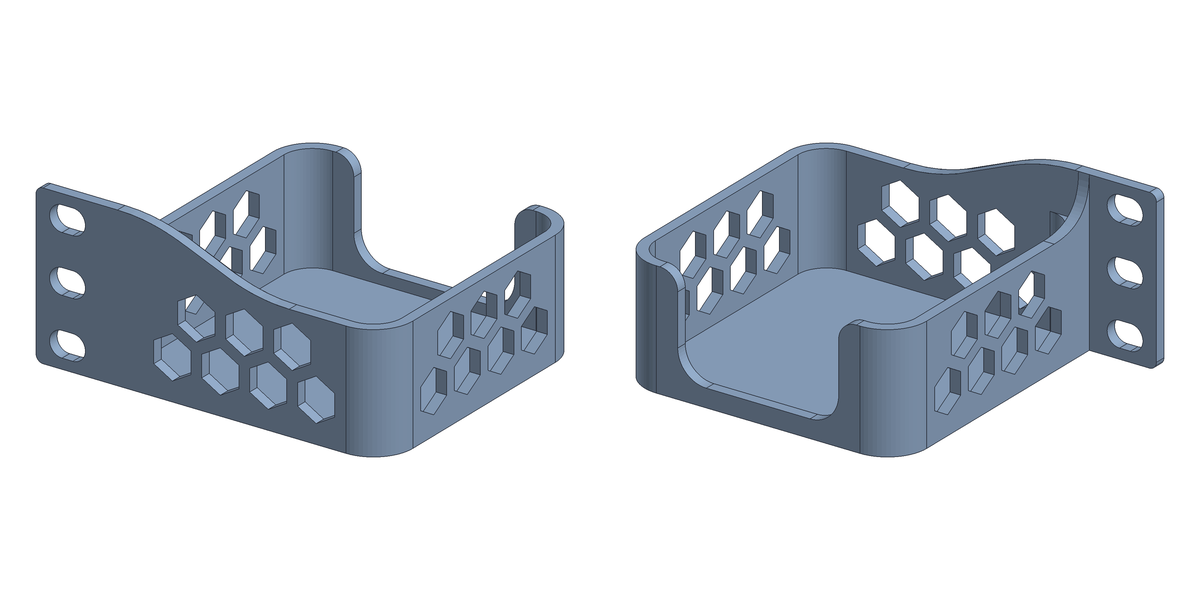
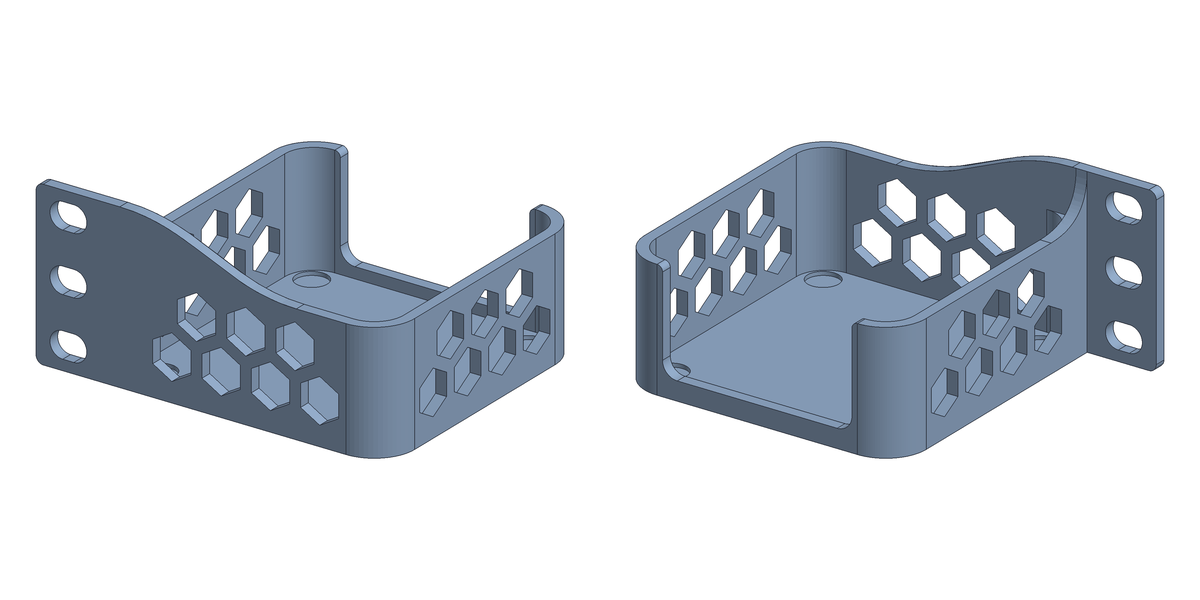
Fit the Caseta rack mount to the bridge as measured
The first print, sized from Lutron's spec sheet, was loose, and its
notch blocked the Ethernet port. The bridge measures 69.5 mm square, not
69.9, so the pocket now allows 0.5 mm around it rather than 1.5 mm.

Dimples in the floor take the bridge's four 7.5 mm rubber feet, as the
Hue mount's do, and locate it. The cable notch widens to 51.5 mm, with
smaller corners, so that it clears the Ethernet port, 10 mm in from the
bridge's edge and 8 mm up, by 1 mm on either hand of mount; the model
asserts that its bottom corners stay below the port.

make also writes a test piece: the back of the tray, with the notch, the
back corners and two dimples, for checking the fit before a full print.

diff --git a/models/caseta-rack-mount/caseta-rack-mount.py b/models/caseta-rack-mount/caseta-rack-mount.py
@@ -2,7 +2,8 @@
 
 An open tray holds the bridge beside a rack post. Its front wall carries on
 past one side of the tray as a 1U ear, which screws to the post; the tray's
-far wall has a wide notch for the bridge's cables. The style follows a
+far wall has a wide notch for the bridge's cables, and dimples in the floor
+take the bridge's rubber feet. The style follows a
 Philips Hue Bridge corner mount: hexagon windows in the walls, and the ear
 rising above the walls in a smooth curve.
 
@@ -14,6 +15,7 @@ on the left (-X) when seen from the front; the right mount mirrors it.
 from build123d import (
     Align,
     Axis,
+    Box,
     Circle,
     Part,
     Plane,
@@ -33,10 +35,19 @@ from build123d import (
 from common.export import export
 from common.preview import preview
 
-# The Smart Bridge (L-BDG2) is 2.75 x 2.75 x 1.19 in.
-BRIDGE_WIDTH = 69.9
+# The Smart Bridge (L-BDG2), as measured. Lutron gives 2.75 x 2.75 x 1.19 in
+# (69.9 x 69.9 x 30.2 mm), but a pocket sized from that was loose.
+BRIDGE_WIDTH = 69.5
 BRIDGE_HEIGHT = 30.2
-CLEARANCE = 1.5  # around the bridge, each side
+CLEARANCE = 0.5  # around the bridge, each side; the feet locate it
+
+# A 7.5 mm rubber foot in each corner of the bridge's base, 1.5 mm in from both
+# edges and standing about 1 mm proud. Each sits in a dimple in the floor, so
+# the bridge rests on the floor.
+FOOT_DIAMETER = 7.5
+FOOT_INSET = 1.5  # from each nearby edge of the bridge
+DIMPLE_DIAMETER = FOOT_DIAMETER + 1
+DIMPLE_DEPTH = 1
 
 # The tray. The walls come up to the top of the bridge.
 FLOOR = 2
@@ -69,11 +80,21 @@ HEX_HEIGHT = 12  # point to point
 HEX_PITCH = 13.4  # across, leaving 3 mm between windows
 HEX_ROW_PITCH = HEX_PITCH * 3**0.5 / 2
 
-# The cable notch in the back wall, for the bridge's power and Ethernet.
-NOTCH_WIDTH = 45
+# The cable notch in the back wall. The Ethernet port is off to one side of
+# the bridge's back, its near side 10 mm from the bridge's edge and its bottom
+# 8 mm up. The notch is symmetric, so that the port clears it on either hand of
+# mount; the micro-USB power port, centred and lower, clears it easily.
+ETHERNET_INSET = 10  # from the bridge's edge to the port's near side
+ETHERNET_BOTTOM = 8  # above the bridge's base
+PORT_MARGIN = 1  # beside the port, for the plug's boot
+NOTCH_WIDTH = BRIDGE_WIDTH - 2 * (ETHERNET_INSET - PORT_MARGIN)
 NOTCH_BOTTOM = FLOOR + 3
-NOTCH_RADIUS = 8  # at the bottom corners
-NOTCH_FLARE = 5  # rounding the top of the wall into the notch
+NOTCH_RADIUS = 4  # at the bottom corners
+NOTCH_FLARE = 1.5  # rounding the top of the wall into the notch
+
+# The test piece: the back of the tray, with the notch and the back two
+# dimples, to check the fit before printing the whole mount.
+TEST_DEPTH = 18
 
 CORNER = (Align.MIN, Align.MIN)
 
@@ -86,6 +107,9 @@ assert NOTCH_WIDTH + 2 * NOTCH_FLARE <= WIDTH - 2 * CORNER_RADIUS, (
 )
 assert NOTCH_BOTTOM + NOTCH_RADIUS <= WALL_HEIGHT - NOTCH_FLARE, (
     "The cable notch's corners overlap"
+)
+assert NOTCH_BOTTOM + NOTCH_RADIUS <= FLOOR + ETHERNET_BOTTOM, (
+    "The cable notch's bottom corners block the Ethernet port"
 )
 
 
@@ -185,9 +209,20 @@ def notch() -> Sketch:
     return cut
 
 
+def dimples() -> Part:
+    """The recesses in the floor for the bridge's feet."""
+    offset = BRIDGE_WIDTH / 2 - FOOT_INSET - FOOT_DIAMETER / 2
+    recesses = Sketch()
+    for x in (-offset, offset):
+        for y in (-offset, offset):
+            recesses += Pos(WIDTH / 2 + x, DEPTH / 2 + y) * Circle(DIMPLE_DIAMETER / 2)
+    return Pos(0, 0, FLOOR - DIMPLE_DEPTH) * extrude(recesses, DIMPLE_DEPTH + 1)
+
+
 def mount(holes: int = 3) -> Part:
     """The left-hand mount, with 2 or 3 screw slots in the ear."""
     part = tray() + ear(holes) + gusset()
+    part -= dimples()
     part -= side(hexagons(DEPTH / 2), -1, WIDTH + 2)
     part -= front(hexagons(WIDTH / 2), -1, WALL + 2)
     part -= front(notch(), DEPTH - WALL - 1, WALL + 2)
@@ -202,7 +237,13 @@ def right(part: Part) -> Part:
 left_3 = mount(3)
 left_2 = mount(2)
 
+# The back of the tray is the same on either hand of mount.
+test_piece = left_3 & Pos(-1, DEPTH - TEST_DEPTH, 0) * Box(
+    WIDTH + 2, TEST_DEPTH + 1, RACK_UNIT, align=(Align.MIN, Align.MIN, Align.MIN)
+)
+
 if __name__ == "__main__":
+    export(test_piece, __file__, variant="test")
     export(right(left_3), __file__, variant="right")
     export(left_2, __file__, variant="2-hole")
     export(right(left_2), __file__, variant="right-2-hole")

diff --git a/models/caseta-rack-mount/README.md b/models/caseta-rack-mount/README.md
@@ -7,25 +7,36 @@ of a Philips Hue Bridge corner mount: an open tray with hexagon windows,
 whose front wall carries on past one side as a 1U ear.
 
 The ear screws to a rack post, and the tray sits beside the post. A wide
-notch in the tray's back wall lets the power and Ethernet cables out. The ear
-stands a full rack unit tall over the screws, then curves down to the walls.
+notch in the tray's back wall lets the power and Ethernet cables out, and
+dimples in the floor take the bridge's rubber feet. The ear stands a full rack unit tall over the screws, then curves down to the walls.
 
 ## Status
 
-Not yet test-fitted.
+The first print, sized from Lutron's spec sheet (69.9 mm square, with 1.5 mm
+around it), was loose, and its notch blocked the Ethernet port. This version
+is sized from the bridge itself but has not been printed yet.
 
-The bridge is 2.75 x 2.75 x 1.19 in (69.9 x 69.9 x 30.2 mm) by Lutron's
-spec sheet; the pocket allows 1.5 mm around it, and the walls come up to its
-top. The bridge's corner radius has not been measured: the pocket's corners
-have an 8 mm radius, which fits any bridge corner of about 3 mm or more.
+The bridge measures 69.5 mm square and 30.2 mm tall. The pocket allows 0.5 mm
+around it, and the walls come up to its top. Its base has a 7.5 mm rubber
+foot in each corner, 1.5 mm in from both edges and about 1 mm proud; each
+sits in an 8.5 mm dimple 1 mm deep, which locates the bridge and lets it rest
+on the floor.
+
+The Ethernet port's near side is 10 mm in from the bridge's edge and its
+bottom 8 mm up. The port is off to one side, and the right-hand mount mirrors
+the left, so the notch is symmetric: 51.5 mm wide, clearing the port by 1 mm
+on either hand. Its bottom corners are rounded off below the port. The
+micro-USB power port is centred and lower, well inside the notch.
+
+The bridge's corner radius has not been measured. The pocket's corners have
+an 8 mm radius, which with 0.5 mm of clearance needs the bridge's corners to
+be rounded about 6.5 mm or more; the test piece checks this.
 
 The ear's slots, wall thicknesses and window pattern match the Hue mount, so
 this mount should fit wherever that one does. The slots are 10 x 7 mm, at the
 EIA-310 hole heights (6.35, 22.225 and 38.1 mm up the unit), 10 mm out from
-the side of the tray.
-
-The Hue mount has recesses in its floor for that bridge's feet; this one has
-a flat floor. Its wall tops are also square rather than lightly rounded.
+the side of the tray. The Hue mount's wall tops are lightly rounded; these
+are square.
 
 ## Outputs
 
@@ -36,6 +47,14 @@ a flat floor. Its wall tops are also square rather than lightly rounded.
 - `caseta-rack-mount-right.stl` and `.step`: its mirror image.
 - `caseta-rack-mount-2-hole.stl` and `-right-2-hole`: both hands with only
   the top and bottom slots.
+- `caseta-rack-mount-test.stl` and `.step`: the back 18 mm of the tray, with
+  the notch, the back corners and two dimples. The same for either hand.
+
+## Before printing
+
+Print the test piece and set the bridge's back into it, its feet in the
+dimples. Check that the back corners do not bind, and that an Ethernet cable
+and the power cable plug in without touching the wall.
 
 ## Printing
 
